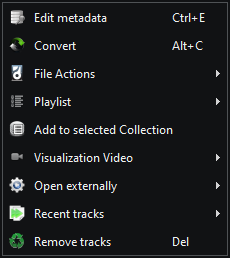
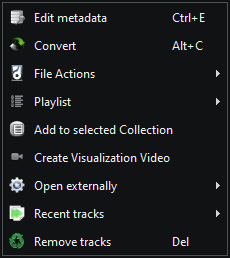
User Guide

Changed region(s): [[0.1217, 0.5891, 0.7609, 0.6512], [0.913, 0.5891, 0.9739, 0.6202]]

diff --git a/docs/index_el.md b/docs/index_el.md
@@ -33,6 +33,7 @@
       * [Διαίρεση](#διαίρεση)
     * [Μετονομασία](#μετονομασία)
     * [Περιοχή Ρίψης](#περιοχή-ρίψης)
+    * [Δημιουργία βίντεο οπτικοποίησης](#δημιουργία-βίντεο-οπτικοποίησης)
   * [Δεξί κλικ Μενού](#δεξί-κλικ-μενού)
     * [Κομμάτι Λίστας](#κομμάτι-λίστας)
     * [Κομμάτι βιβλιοθήκης](#κομμάτι-βιβλιοθήκης)
@@ -737,6 +738,21 @@ ___
 Μπορούμε να αλλάξουμε το μέγεθος και το επίπεδο διαφάνειάς της από την καρτέλα **Εμφάνιση** στις **Προτιμήσεις**, για να την κάνουμε όπως ακριβώς μας αρέσει.  
 Υπάρχουν επίσης κάποιες χρήσιμες ενέργειες, οι οποίες είναι διαθέσιμες από το [μενού της Περιοχής Ρίψης](#μενού-περιοχής-ρίψης) που εμφανίζεται αν κάνετε δεξί κλικ πάνω του.
 
+
+### Δημιουργία βίντεο οπτικοποίησης
+
+![VideoSetup.png](images/VizVideoSetup.png)
+
+
+Το πρώτο πράγμα που μπορούμε να επιλέξουμε είναι η ανάλυση του βίντεο.  
+Μπορούμε επίσης να ελέγξουμε τι θα δείχνει το βίντεο, επιλέγοντας ποιά μεταδεδομένα θα συμπεριλάβουμε και ποια από τα στοιχεία οπτικοποίησης θα ενεργοποιήσουμε.  
+Μπορούμε να διαλέξουμε και τη γραμματοσειρά που θα χρησιμοποιηθεί.  
+
+Με κάθε αλλαγή που κάνουμε, το δεξί μέρος του παραθύρου ανανεώνεται ώστε να μας δείξει πως θα φαίνεται ένα τυχαίο καρέ του βίντεο.  
+Ας λάβουμε υπόψιν μας όμως ότι αυτή είναι μια στατική προεπισκόπηση. Το βίντεο θα δείχνει τα στοιχεία οπτικοποίησης συγχρονισμένα με τον ήχο του κομματιού.  
+
+Πατώντας το κουμπί **Δημιουργία** θα μας ζητηθεί η διαδρομή στην οποία θα αποθηκευτεί το βίντεο, και μετά θα ξεκινήσει η κατασκευή του.
+
 ___
 
 ## Δεξί κλικ Μενού
@@ -745,9 +761,9 @@ ___
 Το μενού του δεξιού κλικ των κομματιών της Λίστας αναπαραγωγής, έχει διαφορετικές επιλογές, ανάλογα με τον τύπο της επιλογής.  
 Ορισμένες από αυτές τις επιλογές ενδέχεται να μην είναι διαθέσιμες για ορισμένους τύπους κομματιών.
 
-| ![MenuFileTrack.png](images/MenuFileTrack.png) | ![MenuFileTracks.png](images/MenuFileTracks.png) |                        ![MenuFileTrack2.png](images/MenuFileTrack2.png)                         |
-|:----------------------------------------------:|:------------------------------------------------:|:-----------------------------------------------------------------------------------------------:|
-|        _Επιλεγμένο ένα κομμάτι αρχείου_        |       _Επιλεγμένα πολλά κομμάτια αρχείων_        | _Ένα κομμάτι αρχείου <br/>επιλεγμένο (παίζει ή έχει <br/>αποθηκευμένο Σημείο<br/>αναπαραγωγής)_ |
+| ![MenuFileTrack.png](images/MenuFileTrack.png) | ![MenuFileTracks.png](images/MenuFileTracks.png) |                         ![MenuFileTrack2.png](images/MenuFileTrack2.png)                         |
+|:----------------------------------------------:|:------------------------------------------------:|:------------------------------------------------------------------------------------------------:|
+|        _Επιλεγμένο ένα κομμάτι αρχείου_        |       _Επιλεγμένα πολλά κομμάτια αρχείων_        | _Ένα κομμάτι αρχείου <br/>επιλεγμένο (παίζει ή έχει <br/>αποθηκευμένο Σημείο <br/>αναπαραγωγής)_ |
 
 
 | ![MenuLinkTrack.png](images/MenuLinkTrack.png) | ![MenuLinkTracks.png](images/MenuLinkTracks.png) |
@@ -767,9 +783,7 @@ ___
   - **Αποθήκευση τρέχουσας θέσης** αποθηκεύει την τρέχουσα θέση του κομματιού στο δίσκο δίπλα του, σε ένα αρχείο με το ίδιο όνομα με το όνομα αρχείου του κομματιού. 
   - **Αναπαραγωγή από αποθηκευμένη θέση** αναπαράγει το κομμάτι από την προηγουμένως αποθηκευμένη θέση και είναι ενεργοποιημένο μόνο εάν υπάρχει το σχετικό αρχείο.
   - **Καθαρισμός αποθηκευμένης θέσης** αφαιρεί το αρχείο αποθηκευμένης θέσης εάν υπάρχει. 
-- Στο υπο-μενού **Βίντεο οπτικοποίησης** μπορούμε να δημιουργήσουμε ένα βίντεο με το τρέχον επιλεγμένο κομμάτι ήχου (όχι κομμάτι YouTube), συγχρονισμένο με τα στοιχεία οπτικοποίησης. Αυτό το υπο-μενού περιέχει τις ακόλουθες επιλογές:  
-  - Το μενού **Στοιχεία οπτικοποίησης**, μας επιτρέπει να επιλέξουμε ποια από τα στοιχεία οπτικοποίησης θέλουμε να εμφανίσουμε στο βίντεο. Έχουμε την επιλογή να επιλέξουμε/αποεπιλέξουμε οποιοδήποτε από τα στοιχεία ή την κυματομορφή.
-  - Το **Δημιουργία βίντεο οπτικοποίησης** σας ζητά την ανάλυση του βίντεο και τη διαδρομή στην οποία θα αποθηκευτεί το βίντεο.
+- Η επιλογή **[Δημιουργία βίντεο οπτικοποίησης](#δημιουργία-βίντεο-οπτικοποίησης)**, ανοίγει ένα παράθυρο που μας επιτρέπει να δημιουργήσουμε ένα βίντεο χρησιμοποιώντας οποιονδήποτε συνδυασμό οπτικοποιητών και των μεταδεδομένων του κομματιού συγχρονισμένα με τον ήχο του. Αυτή η επιλογή εμφανίζεται όταν έχουμε επιλέξει μόνο ένα κομμάτι από τον σκληρό μας.  
 - **Άνοιγμα εκτός προγράμματος**  
   Ανοίγει το επιλεγμένο κομμάτι αρχείου με έναν από τους τέσσερις προσαρμοσμένους επεξεργαστές μας (βλ. [Διαδρομές](#διαδρομές)).
 - **Προφόρτωση YouTube κομματιών**  
@@ -921,6 +935,7 @@ ___
 - **Συμπαγής Εμφάνιση** αλλάζει μεταξύ της κανονικής και της συμπαγούς προβολής της εφαρμογής.
 - **Προτιμήσεις** είναι μια συντόμευση για τις [Προτιμήσεις](#προτιμήσεις) της εφαρμογής. 
 - **Έξοδος από το KataLib** τερματίζει την εφαρμογή.
+
 
 ___
 

diff --git a/docs/index.md b/docs/index.md
@@ -1,6 +1,7 @@
 # User Guide
 
 <!-- TOC -->
+* [User Guide](#user-guide)
 * [Overview](#overview)
   * [Portable mode](#portable-mode)
   * [The ToolBar](#the-toolbar)
@@ -32,6 +33,7 @@
       * [Split](#split)
     * [Rename](#rename)
     * [DropZone](#dropzone)
+    * [Visualization Video Setup](#visualization-video-setup)
   * [Context Menus](#context-menus)
     * [Playlist Track](#playlist-track)
     * [Library Track](#library-track)
@@ -759,6 +761,20 @@ We can change its size and transparency level from the **View** tab in **Prefere
 There are also some useful actions, that are available from a [menu](#dropzone-menu) that you get if you right-click on it.
 
 
+### Visualization Video Setup
+
+![VideoSetup.png](images/VizVideoSetup.png)
+
+The first thing that we can select is the video's resolution.  
+We can customize what the video is going to display by selecting which of metadata we want to include and which of the visualization widgets we want to show in the video.  
+We can also choose what font we want to use.  
+
+With every change we make, the right part of the dialog is updated to reflect what a frame of the video will look like.   
+Keep in mind that this is a static preview. The video will have the visualization widgets synchronized to the track's audio.  
+
+Pressing the **Create** button will ask for the location and the name of the video file, and start the rendering.
+
+
 ___
 
 ## Context Menus
@@ -794,9 +810,7 @@ Some of these options might not be available for some type of Tracks.
   - **Save current position** saves the current position of the Track to disk next to it, in a file with the same name as the Track's filename. 
   - **Play from saved position** plays the Track from the previously saved position and is enabled only if the relevant file exists.
   - **Clear saved position** removes the saved position file if it exists. 
-- In the **Visualization Video** sub-menu we can create a video with the audio of the currently selected track (one local file track must be selected, not a YouTube link track), synchronized with the visualization widgets. This sub-menu contains the following options:
-  - The **Visualization Video Elements** menu, lets us select which of the visualization widgets we want to show in the video. We have the option to select/de-select any of the widgets or the waveform display.
-  - **Create Visualization Video** ask you for the video resolution and the path that the video will be saved.
+- The action **[Create Visualization Video](#visualization-video-setup)**,  opens a dialog that lets us create a video that displays any compination of the visualization widgets and the track's metadata with the audio of the track. This action is available only when a single local file Track is selected.  
 - **Open externally**  
   Opens the selected file Track with one of our four Custom Editors (see [Paths](#paths)).
 - **PreBuffer YouTube Tracks**  
@@ -953,7 +967,8 @@ This is the menu that you get if you right-click on DropZone.
 - **DroZone** is a sub-menu that can change the DropZone's size or even totally hide it.
 - **Compact View** toggles between the Normal and Compact views of the app.
 - **Preferences** is a shortcut to the Preferences of the app. 
-- **Exit from KataLib** exits the application .
+- **Exit from KataLib** exits the application.
+
 
 ___
 
